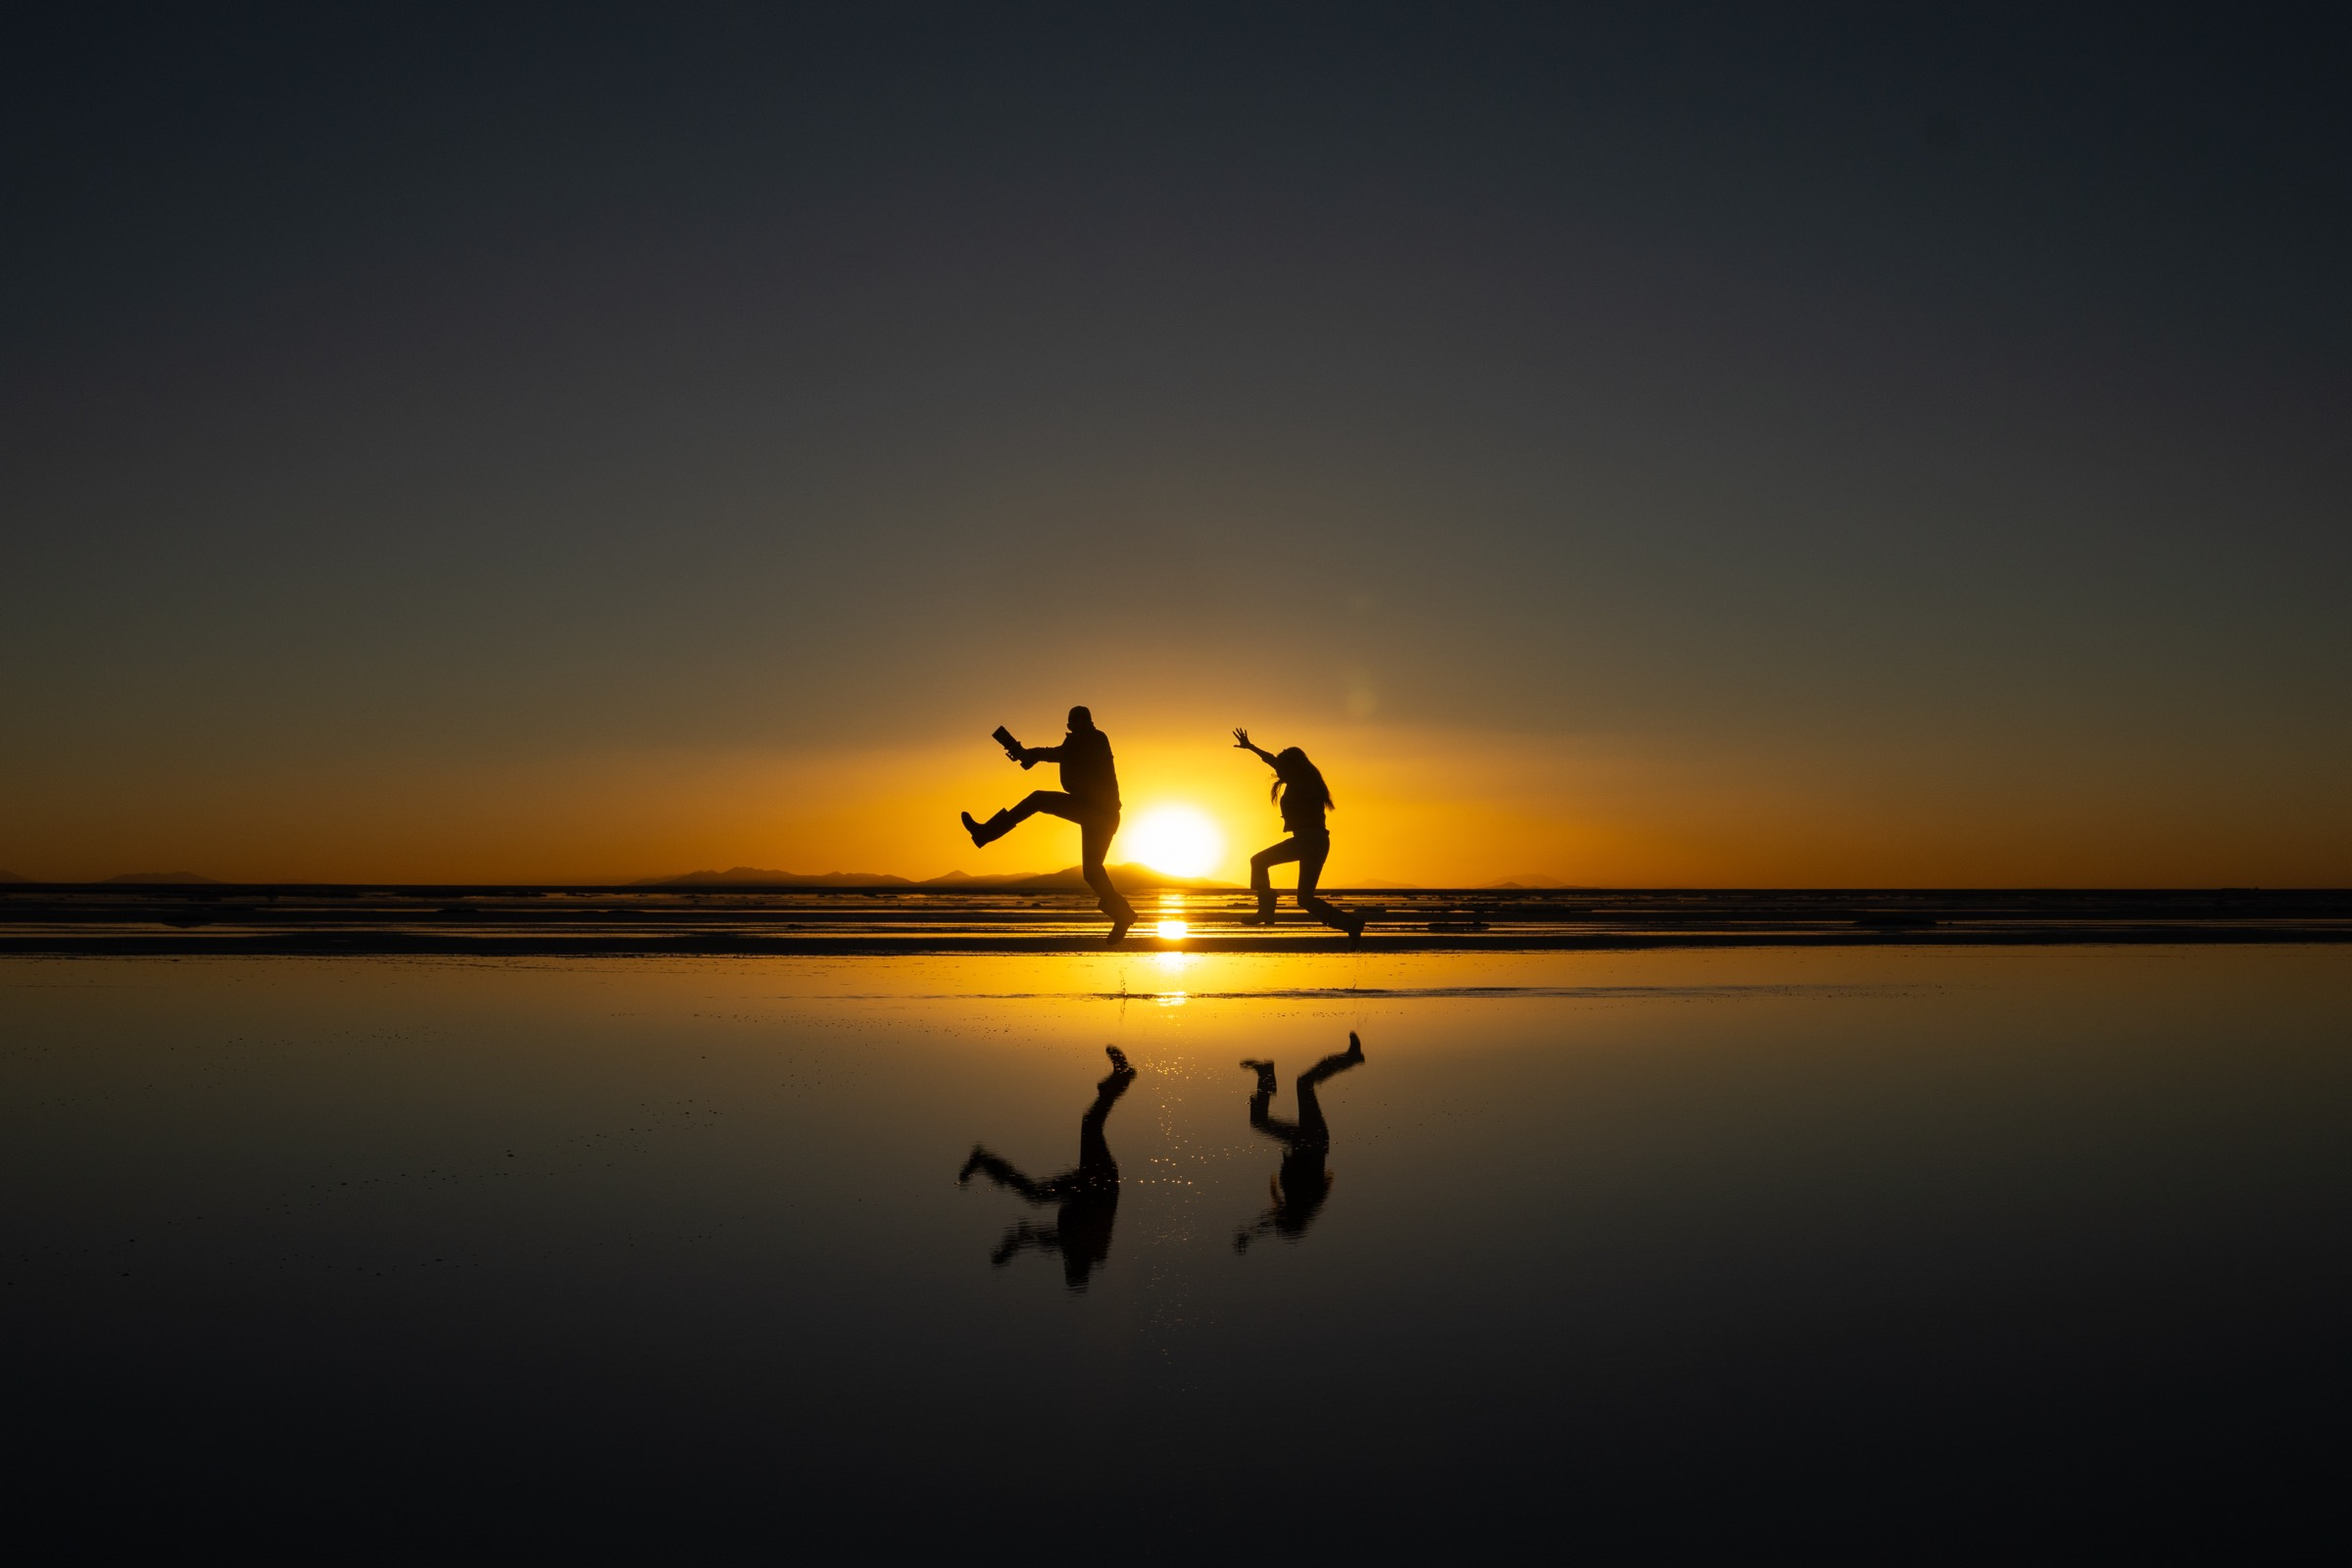
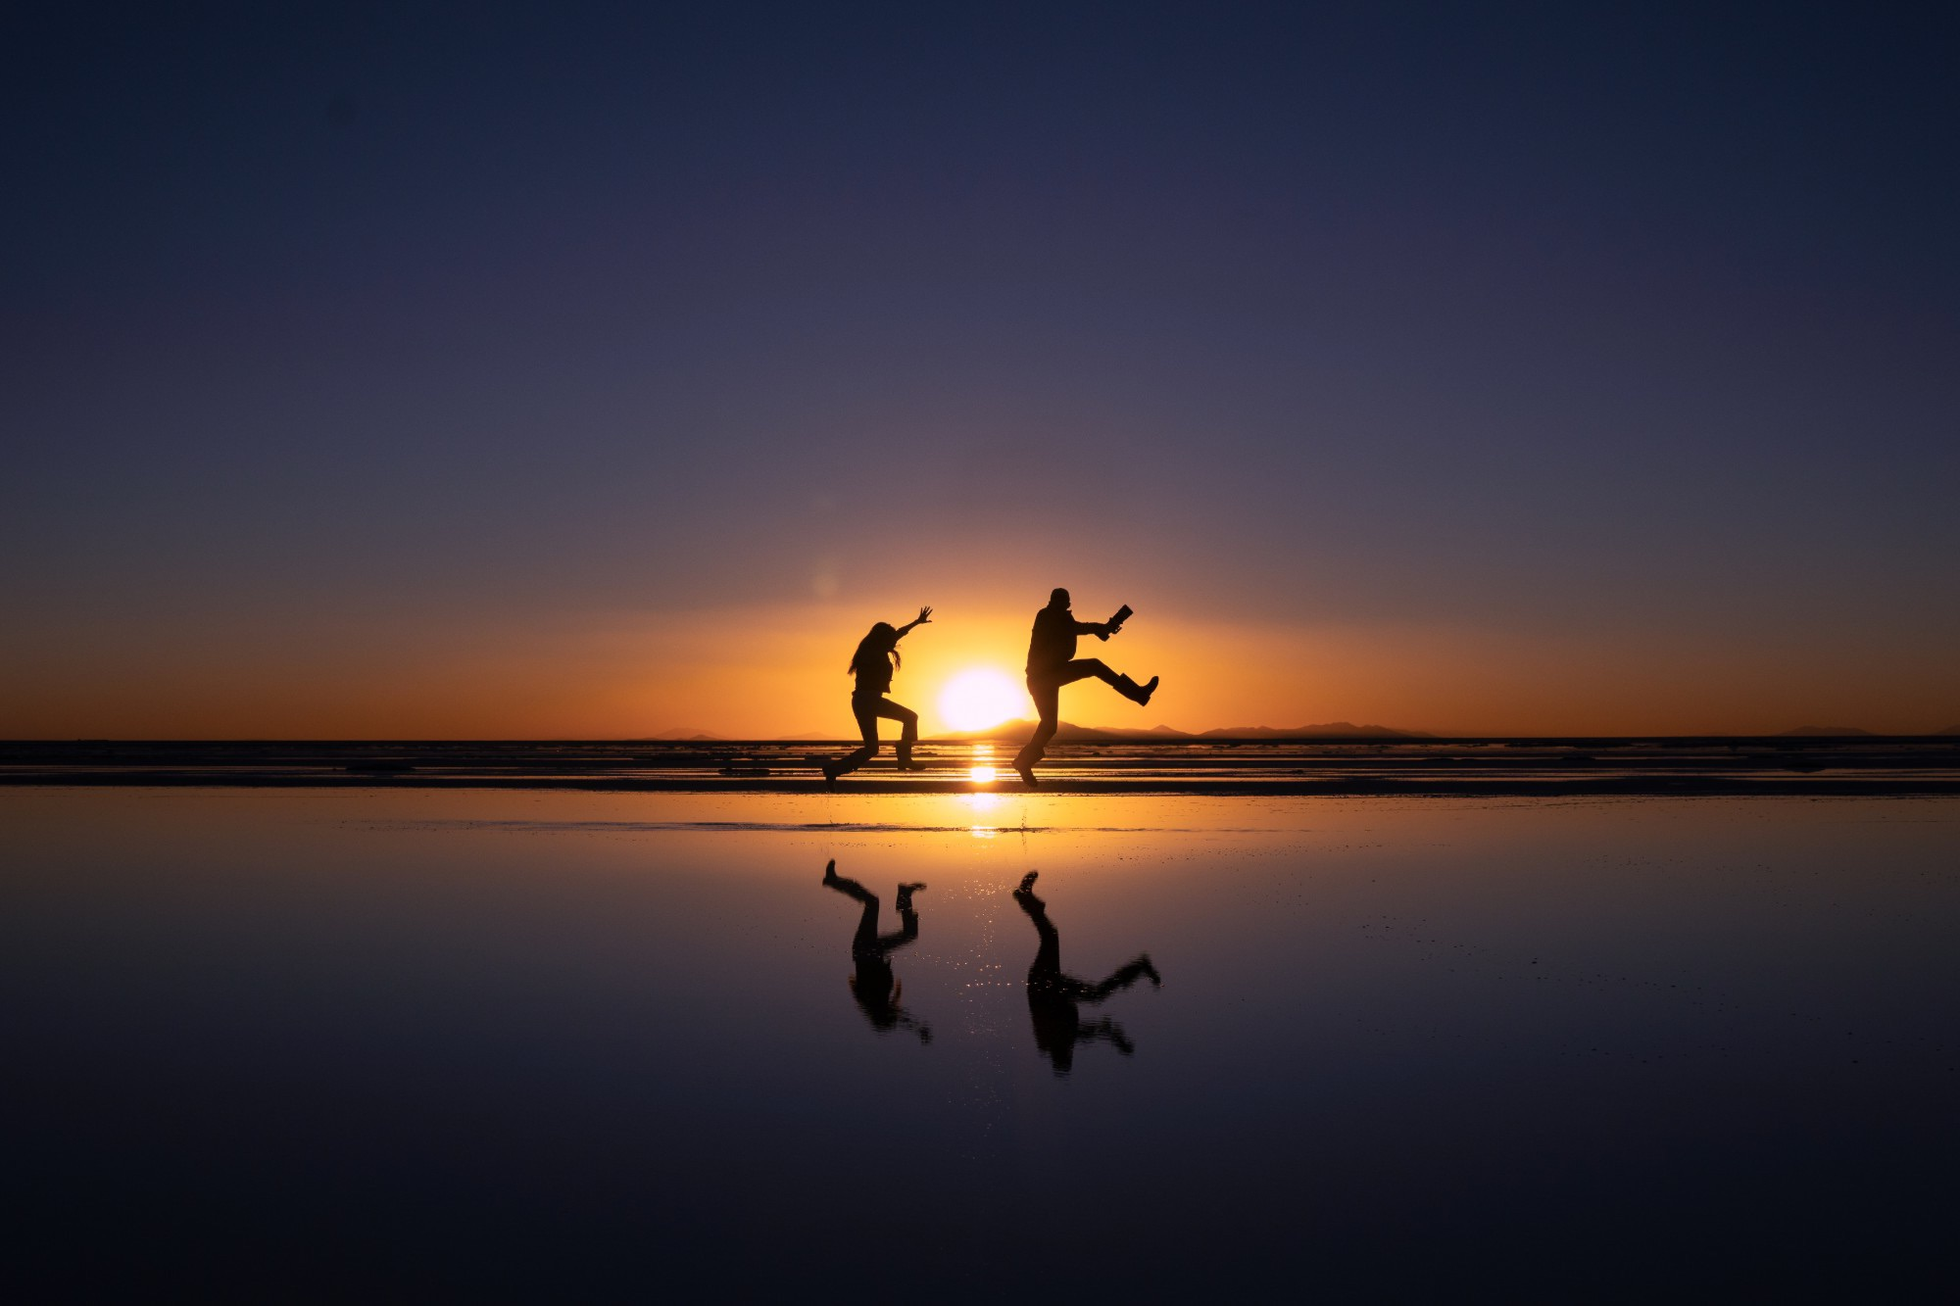
Use Sienna's edit of the sunset jump, flipped and centered

Changed region(s): [[0.0, 0.0923, 1.0, 0.8305], [0.651, 0.1845, 0.682, 0.2153], [0.589, 0.1538, 0.62, 0.1845]]

diff --git a/index.html b/index.html
@@ -50,7 +50,7 @@
       <span class="go">4 programs →</span>
     </a>
     <a class="band" href="programs.html#explore">
-      <img class="scene" src="assets/photos/sunset-jump.jpg" alt="Two people leap against a sunset over still water" loading="lazy" decoding="async">
+      <img class="scene" src="assets/photos/sunset-jump.jpg" alt="Two people leap against a sunset over still water" loading="lazy" decoding="async" style="object-position:50% 54%">
       <span class="step">Step 2 of 4</span>
       <span><span class="word">Explore</span><span class="what">Get outside and see it yourself</span></span>
       <span class="go">4 programs →</span>
